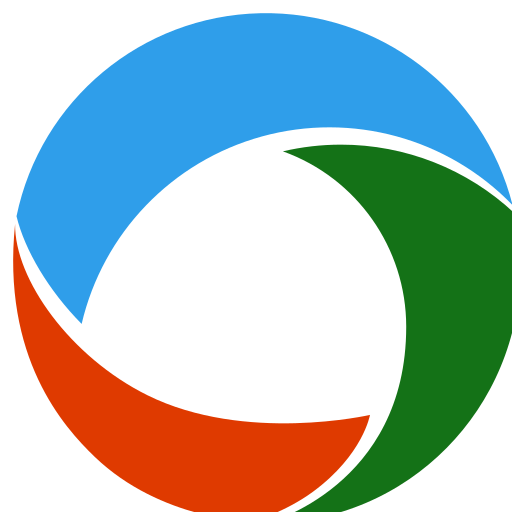
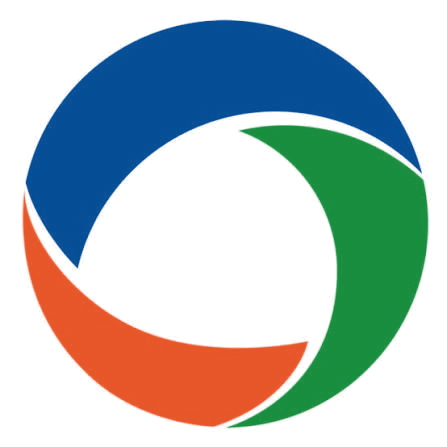
Refine homepage awards and carousel

diff --git a/src/app/page.tsx b/src/app/page.tsx
@@ -61,7 +61,7 @@ export default function HomePage() {
                 imageKey="brand.bestOfMarin.onDark"
                 width={574}
                 height={600}
-                className="h-16 w-auto [filter:drop-shadow(0_2px_5px_rgb(2_10_38/0.3))] sm:h-14 lg:h-16"
+                className="h-14 w-auto [filter:drop-shadow(0_2px_5px_rgb(2_10_38/0.3))] sm:h-12 lg:h-14"
               />
               <p className="text-sm font-medium text-balance text-white/65">
                 <span className="sm:hidden"><T k="home.badge.best.short" /></span>

diff --git a/src/content/defaults.ts b/src/content/defaults.ts
@@ -372,12 +372,12 @@ export const defaultContent: SiteContent = {
       bytes: 21865,
     },
     "brand.ams.bright": {
-      src: "/brand/ams-mark-bright.png",
+      src: "/brand/ams-mark-alpha.png",
       alt: "American Montessori Society",
-      width: 512,
-      height: 512,
+      width: 447,
+      height: 447,
       type: "png",
-      bytes: 21865,
+      bytes: 35947,
     },
     "home.hero.desktop": {
       src: "/images/hero-children-wide.png",

diff --git a/src/app/about/page.tsx b/src/app/about/page.tsx
@@ -96,7 +96,7 @@ export default function AboutPage() {
                 imageKey="brand.ams.bright"
                 width={512}
                 height={512}
-                className="size-32"
+                className="size-32 object-contain"
               />
             </a>
           </div>

diff --git a/src/components/HeroCarousel.tsx b/src/components/HeroCarousel.tsx
@@ -4,7 +4,7 @@ import { useEffect, useState, type CSSProperties } from "react";
 import { EditableImage } from "@/components/admin/EditableImage";
 import type { HeroImage } from "@/components/PageHero";
 
-const INTERVAL_MS = 5500;
+const INTERVAL_MS = 4500;
 
 type Props = {
   slides: HeroImage[];
